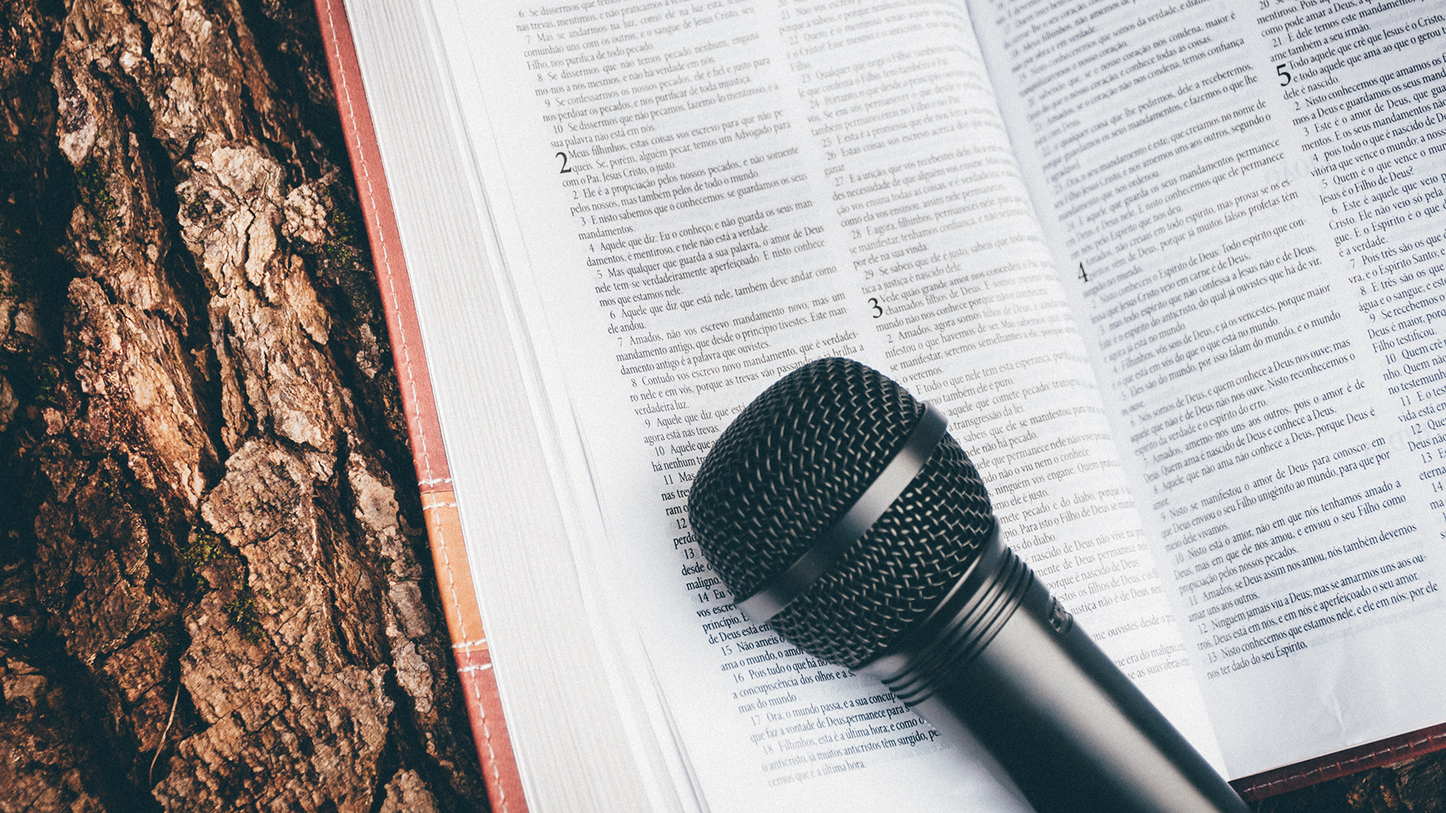
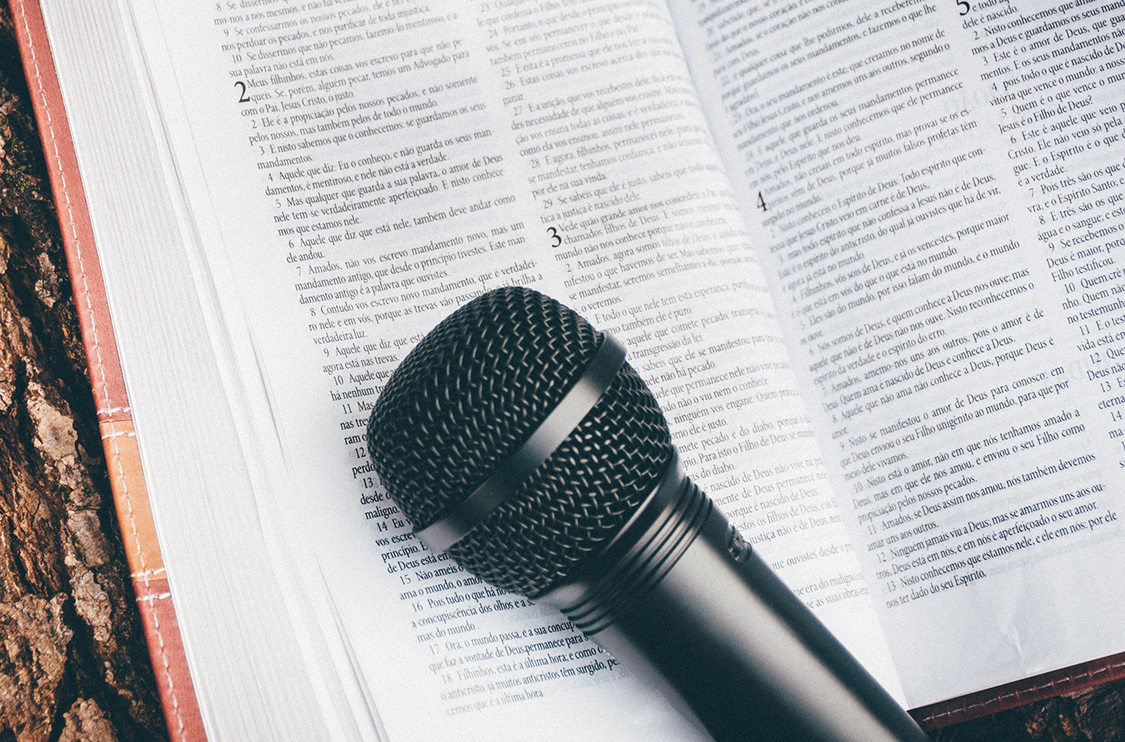
changed layout on the about section of homepage

diff --git a/css/main.css b/css/main.css
@@ -2811,7 +2811,7 @@ footer p {
   }
 
   nav li a:hover {
-    color: black;
+    color: #00626b;
     transition: all 260ms linear;
   }
 
@@ -2848,7 +2848,7 @@ footer p {
   .buttons {
     flex-direction: row;
     flex-flow: row wrap;
-    padding-top: 8.75em;
+    padding: 7em 0 2em 0;
   }
 
   .button-wrap {
@@ -2860,18 +2860,18 @@ footer p {
   }
 
   #buttonone {
-    width: 10.625em;
-    height: 10.625em;
+    width: 11.625em;
+    height: 11.625em;
   }
 
   #buttontwo {
-    width: 10.625em;
-    height: 10.625em;
+    width: 11.625em;
+    height: 11.625em;
   }
 
   #buttonthree {
-    width: 10.625em;
-    height: 10.625em;
+    width: 11.625em;
+    height: 11.625em;
   }
 
   #buttonone:hover {
@@ -2902,35 +2902,42 @@ footer p {
     font-size: 1.875em;
   }
 
-
+.about-radio-divider {
+  border:#c1eae7  solid 2px;
+  width:80%;
+}
   .about-radio {
-    width: 80%;
-    margin-top: 12.5em;
+    width: 100%;
+    margin-top: 10.5em;
     padding: 3.125em 0 3.125em 0;
-    background-color: #E6F6FF;
-    background-color: #F1F9F7;
+    /* background-color: #E6F6FF; */
+    /* background-color: #F1F9F7; */
     flex-direction: row;
+    position: relative;
   }
 
 
   .white-text-wrapper {
-    padding: 6.25em 0;
+    padding: 6.5em 0 9em 0;
     background-color: #F1F9F7;
-
+    /* background-color: white; */
     width: 28.125em;
-    height: 12.5em;
-
+    height: 10.5em;
+    position: absolute;
+    right:300px;
+    box-shadow: 20px 20px 63px lightgrey;
   }
 
   .white-text-wrapper h2 {
     margin-top: 1.25em;
+    padding-bottom: 0.75em;
   }
 
   .white-text-wrapper a {
     color: #025B6D;
     color: #55b19c;
     color: #2bc3b7;
-
+    /* color:#E3886F; */
     font-weight: bold;
     font-size: 1.375em;
     padding-bottom: 1.25em;
@@ -2960,8 +2967,10 @@ footer p {
   }
 
   .biblepic {
-    width: 60%;
+    width: 45%;
     position: relative;
+    box-shadow: 0 0 6px 0 #444444;
+    right:200px;
   }
 
 

diff --git a/index.html b/index.html
@@ -24,6 +24,11 @@
   <link rel="stylesheet" href="https://use.typekit.net/vob5ytq.css">
 
   <meta name="theme-color" content="#fafafa">
+
+  <link
+  rel="stylesheet"
+  href="https://cdnjs.cloudflare.com/ajax/libs/animate.css/4.0.0/animate.min.css"
+/>
 </head>
 
 
@@ -142,7 +147,7 @@
     <div class="about-radio-divider"></div>
 
     <section class="about-radio">
-      <img class="biblepic" src="img/biblemic.png">
+      <img class="biblepic" class="animate__animated animate__slideInRight" src="img/biblemic.png">
       <!---<img class="white" src="img/white.png">--->
       <!---<div class="white-square"><div class="text">
         <h2>What We Do</h2>
@@ -159,7 +164,6 @@
       </div>
     </section>
 
-    <div class="about-radio-divider"></div>
 
 
 
